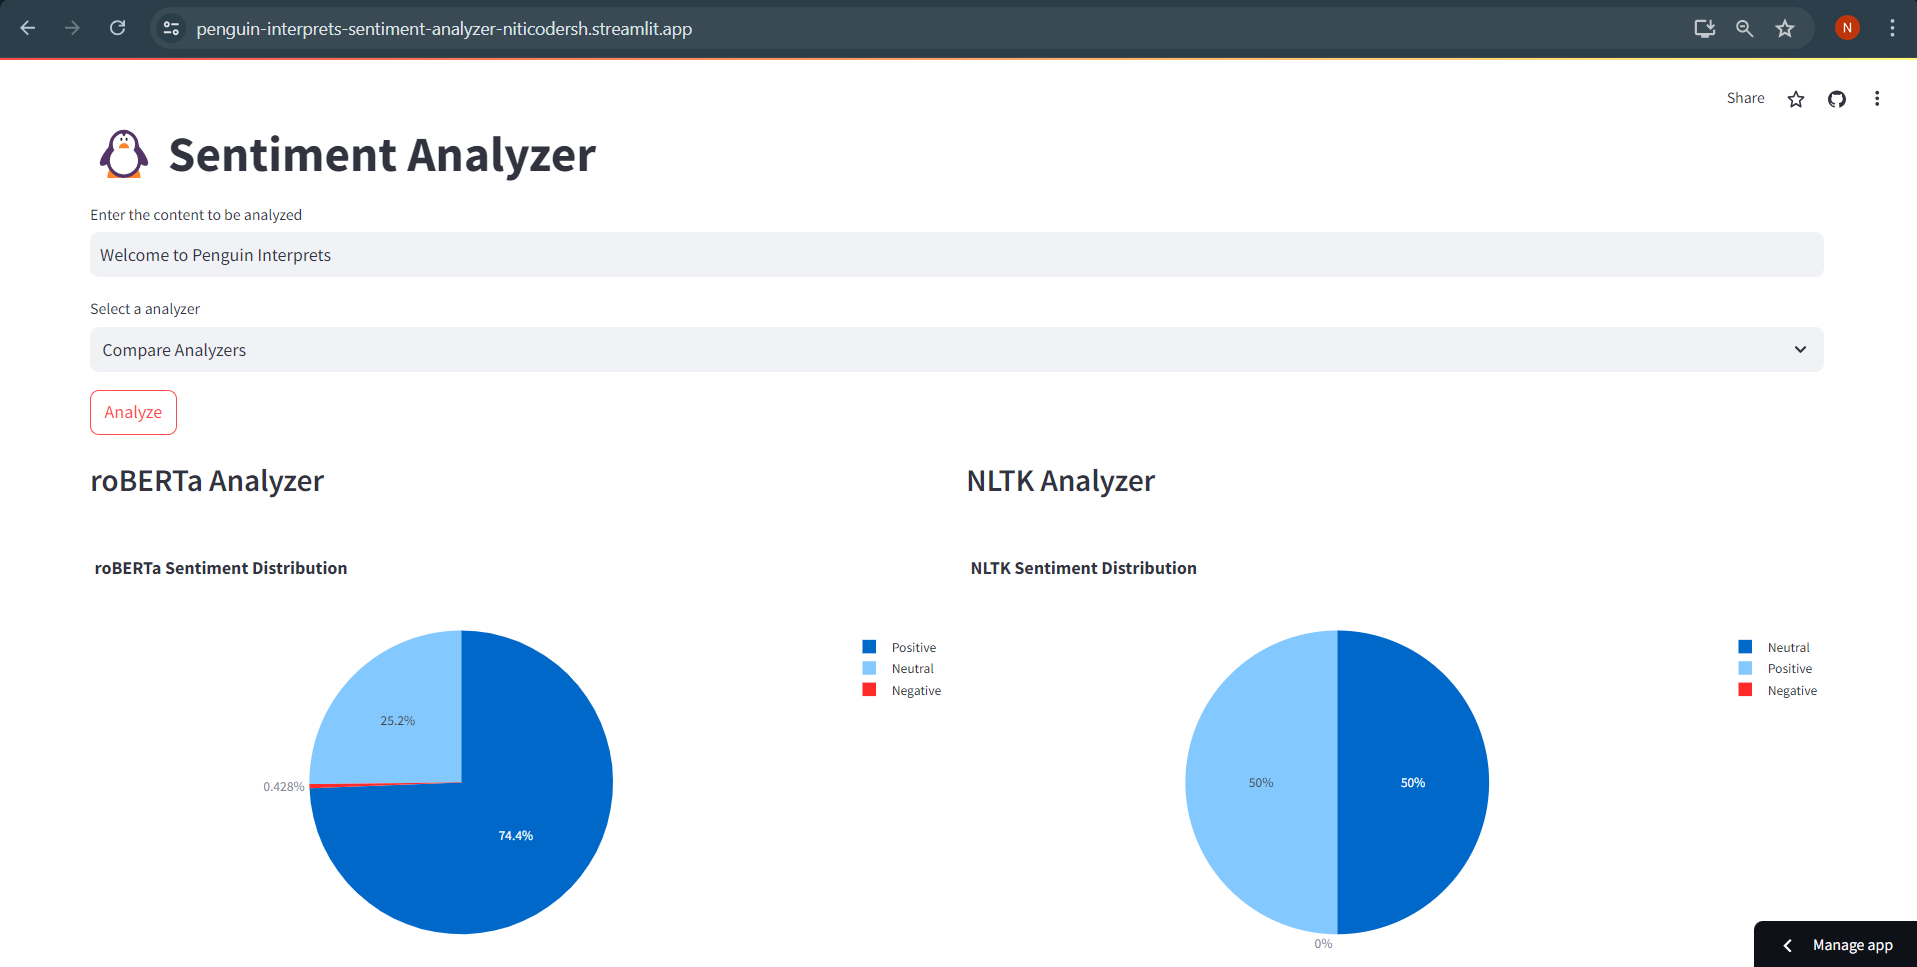
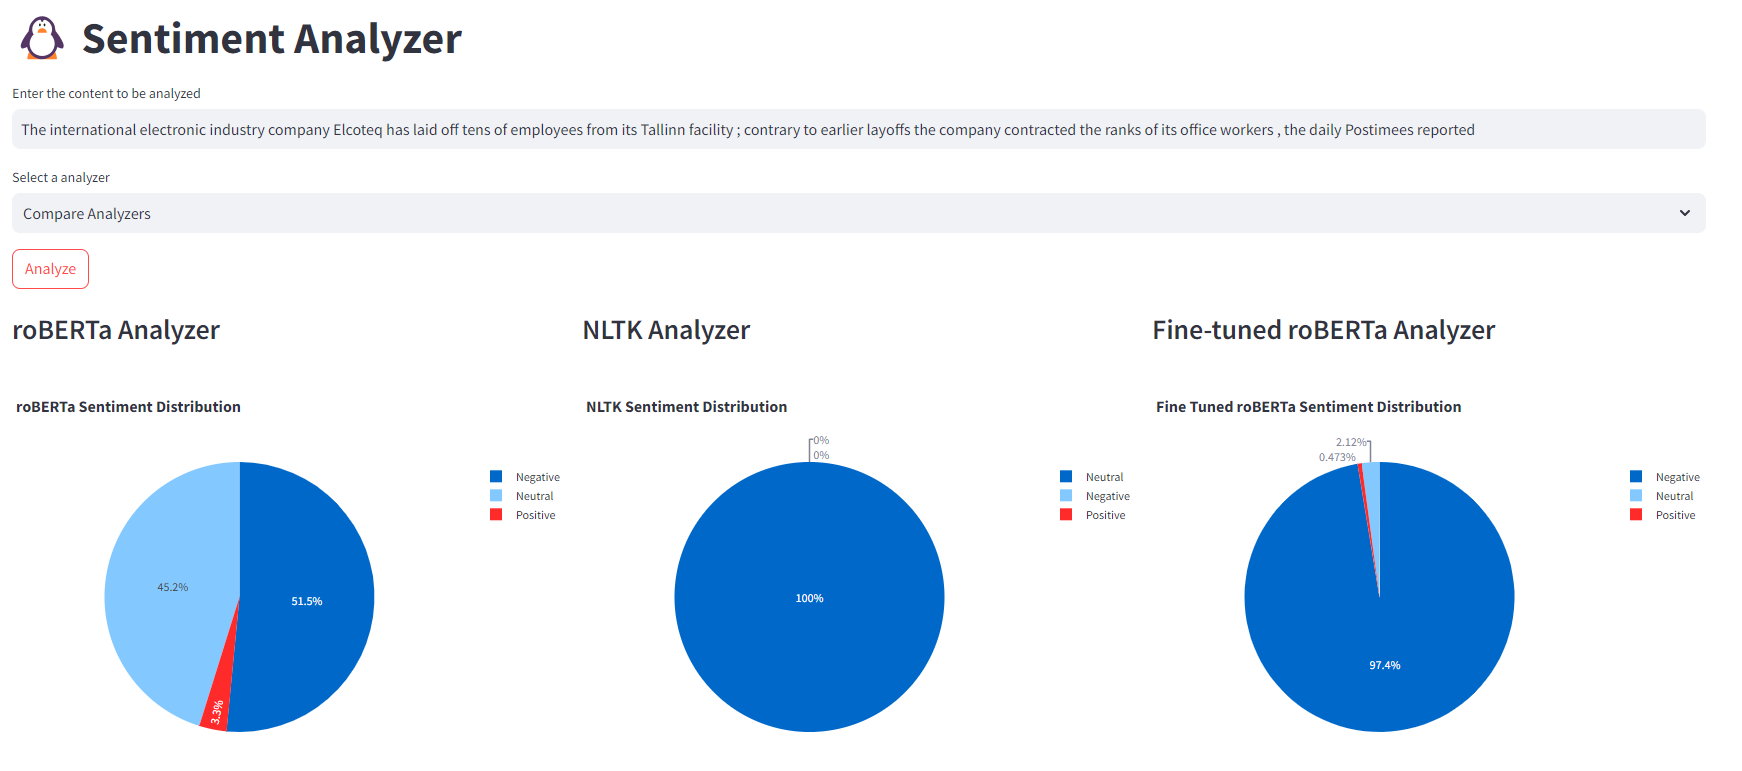
Updates commit

diff --git a/app.py b/app.py
@@ -1,18 +1,13 @@
-import requests
-import os
 import torch
 import torch.nn as nn
-from transformers import AutoTokenizer, AutoModelForSequenceClassification, AutoModel, AdamW, get_cosine_schedule_with_warmup
+from transformers import AutoTokenizer, AutoModelForSequenceClassification, AutoModel
 import pytorch_lightning as pl
-import math
 import plotly.express as px
 import gdown
 from scipy.special import softmax
 import streamlit as st
 import string
-import nltk
 from pathlib import Path
-import time
 from nltk import download
 from nltk.sentiment.vader import SentimentIntensityAnalyzer
 
@@ -36,7 +31,7 @@ print("Option chosen", option)
 analyze_button = st.button('Analyze')
 
 
-@st.cache_data
+# @st.cache_data
 def load_model():
     save_dest = Path('model')
     save_dest.mkdir(exist_ok=True)
@@ -44,7 +39,7 @@ def load_model():
     f_checkpoint = Path("model/model.ckpt")
 
     if not f_checkpoint.exists():
-        with st.spinner("Downloading model... this may take awhile! \n Don't stop it!"):
+        with st.spinner("This is a one-time process, once the model is downloaded, you can use it as many times. Downloading fine-tuned roBERTa..."):
             model_url = "https://drive.google.com/uc?id=1CuIwhkqWu1_M_rjoHDAmFB2X5IL2UCf9"
             try:
                 gdown.download(model_url, str(f_checkpoint), quiet=False)
@@ -60,39 +55,6 @@ def fine_tuned_roBERTa(text):
     model_dict = load_model()
     if model_dict is None:
         return [], [], 0, 0, {}
-
-    # def fine_tuned_roBERTa(text):
-#     model_path = "model.ckpt"
-#     # model_url = "https://drive.google.com/file/d/1CuIwhkqWu1_M_rjoHDAmFB2X5IL2UCf9"
-#     model_url = "https://drive.google.com/uc?id=1CuIwhkqWu1_M_rjoHDAmFB2X5IL2UCf9"
-
-
-    # def download_model(url, dest):
-    #     if not os.path.exists(dest):
-    #         with st.spinner('This is one-time process, once model is downloaded, you can use it as many times. Downloading fine-tuned roBERTa...'):
-    #             response = gdown.download(url, dest, quiet=False)
-    #         st.success('Model downloaded successfully!')
-
-    # def download_model(url, dest):
-    #     if not os.path.exists(dest):
-    #         retries = 5
-    #         for attempt in range(retries):
-    #             try:
-    #                 with st.spinner(
-    #                         'This is a one-time process, once the model is downloaded, you can use it as many times. Downloading fine-tuned roBERTa...'):
-    #                     gdown.download(url, dest, quiet=False)
-    #                 st.success('Model downloaded successfully!')
-    #                 break
-    #             except Exception as e:
-    #                 st.warning(f"Attempt {attempt + 1} of {retries} failed: {e}")
-    #                 time.sleep(5)  # Wait before retrying
-    #                 if attempt == retries - 1:
-    #                     st.error("Failed to download model after several attempts.")
-    #                     raise e
-    #
-    #
-    #
-    # download_model(model_url, model_path)
 
     class SentimentClassifier(pl.LightningModule):
         def __init__(self, config: dict):
@@ -133,8 +95,6 @@ def fine_tuned_roBERTa(text):
 
     # Load model and tokenizer
     device = 'cuda' if torch.cuda.is_available() else 'cpu'
-    # model = SentimentClassifier.load_from_checkpoint(model_path, config=config).to(device)
-    # Create an instance of SentimentClassifier
     model = SentimentClassifier(config)
     model.load_state_dict(model_dict['state_dict'])
     model.eval()
@@ -187,6 +147,7 @@ def NLTK_Analysis(text):
     max_prob, max_index = find_max_element_and_index(scores)
 
     return scores, labels, max_prob, max_index, mapping
+
 # Define the analysis function
 def roBERTa_Analysis(text):
     # Pre-process text

diff --git a/roBERTa_FineTuned_script.py b/roBERTa_FineTuned_script.py
@@ -1,15 +1,10 @@
-import requests
-import os
-import torch
-import torch.nn as nn
-from transformers import AutoTokenizer, AutoModel, AdamW, get_cosine_schedule_with_warmup
-import pytorch_lightning as pl
-import math
-import plotly.express as px
-
-
 import os
 import gdown
+import torch
+import torch.nn as nn
+from transformers import AutoTokenizer, AutoModel
+import pytorch_lightning as pl
+import plotly.express as px
 
 model_path = "best_model.ckpt"
 model_url = "https://drive.google.com/uc?id=1-zQyH3AI9MgvicfVqJhnqs875tQi5MFO"
